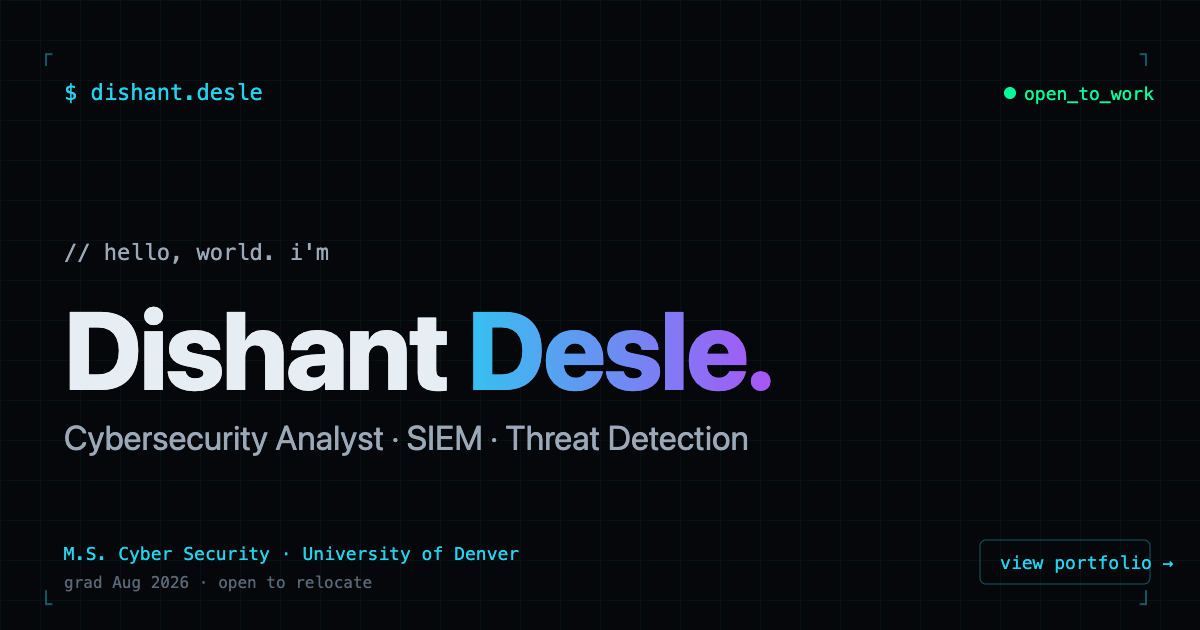
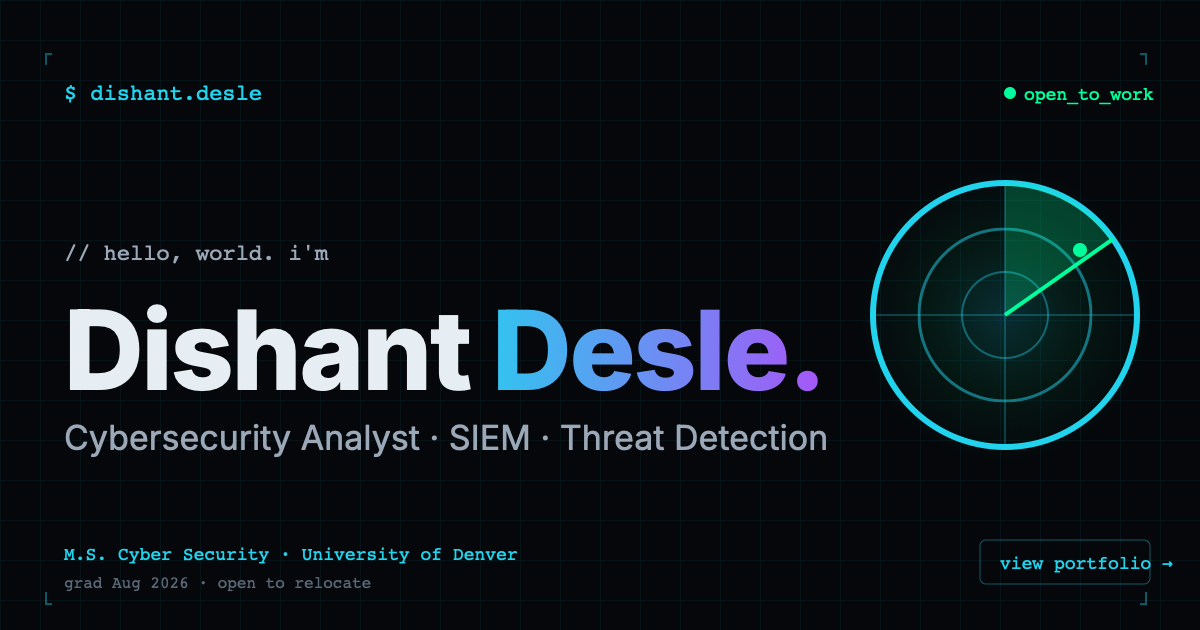
feat(brand): carry the radar mark into the og card and site header (#16)
Aligns the identity with the new radar favicon:
- og card: adds the radar scope on the right of the social-share image and
  regenerates og.png (1200x630) from the updated og.svg source.
- Adds a RadarMark component and places it as the nav logo (next to the $
  prompt) and a subtle mark in the hero terminal titlebar.

diff --git a/src/components/ui/RadarMark.tsx b/src/components/ui/RadarMark.tsx
@@ -1,0 +1,20 @@
+// The site's brand mark: a radar scope (cyan rings + green sweep + blip),
+// matching favicon.svg and the og card. Used in the nav and the hero terminal bar.
+export function RadarMark({ size = 20, className }: { size?: number; className?: string }) {
+  return (
+    <svg
+      width={size}
+      height={size}
+      viewBox="0 0 64 64"
+      fill="none"
+      className={className}
+      aria-hidden="true"
+    >
+      <circle cx="32" cy="32" r="21" stroke="#22d3ee" strokeWidth="3" />
+      <circle cx="32" cy="32" r="11" stroke="#22d3ee" strokeWidth="1.5" opacity="0.45" />
+      <path d="M32 32 L32 12 A20 20 0 0 1 50.6 24.4 Z" fill="#00ff9c" opacity="0.3" />
+      <line x1="32" y1="32" x2="50.6" y2="24.4" stroke="#00ff9c" strokeWidth="2.4" />
+      <circle cx="45" cy="23" r="3" fill="#00ff9c" />
+    </svg>
+  );
+}

diff --git a/src/components/Nav.tsx b/src/components/Nav.tsx
@@ -2,6 +2,7 @@ import { useEffect, useState } from 'react';
 import { motion } from 'framer-motion';
 import { Command, Mail, Menu, X } from 'lucide-react';
 import { GithubIcon, LinkedinIcon } from './ui/BrandIcons';
+import { RadarMark } from './ui/RadarMark';
 import { profile } from '../data/content';
 import clsx from 'clsx';
 
@@ -59,6 +60,7 @@ export function Nav() {
     >
       <nav className="max-w-6xl mx-auto px-4 sm:px-6 h-16 flex items-center justify-between gap-3">
         <a href="#top" className="font-mono text-sm flex items-center gap-2 group">
+          <RadarMark size={18} className="shrink-0" />
           <span className="text-neon-green">$</span>
           <span className="text-ink group-hover:text-neon-cyan transition-colors">
             {profile.handle}

diff --git a/src/components/Hero.tsx b/src/components/Hero.tsx
@@ -5,6 +5,7 @@ import { GlitchText } from './ui/GlitchText';
 import { BadgesStrip } from './BadgesStrip';
 import { Magnetic } from './ui/Magnetic';
 import { InteractiveTerminal } from './ui/InteractiveTerminal';
+import { RadarMark } from './ui/RadarMark';
 
 export function Hero() {
   return (
@@ -95,6 +96,7 @@ export function Hero() {
               <span className="w-3 h-3 rounded-full bg-neon-amber/70" />
               <span className="w-3 h-3 rounded-full bg-neon-green/70" />
               <span className="ml-2 font-mono text-xs text-ink-mute">~/dishant - zsh</span>
+              <RadarMark size={14} className="ml-auto opacity-60 shrink-0" />
             </div>
             <div className="p-5 min-h-[260px]">
               <InteractiveTerminal />
